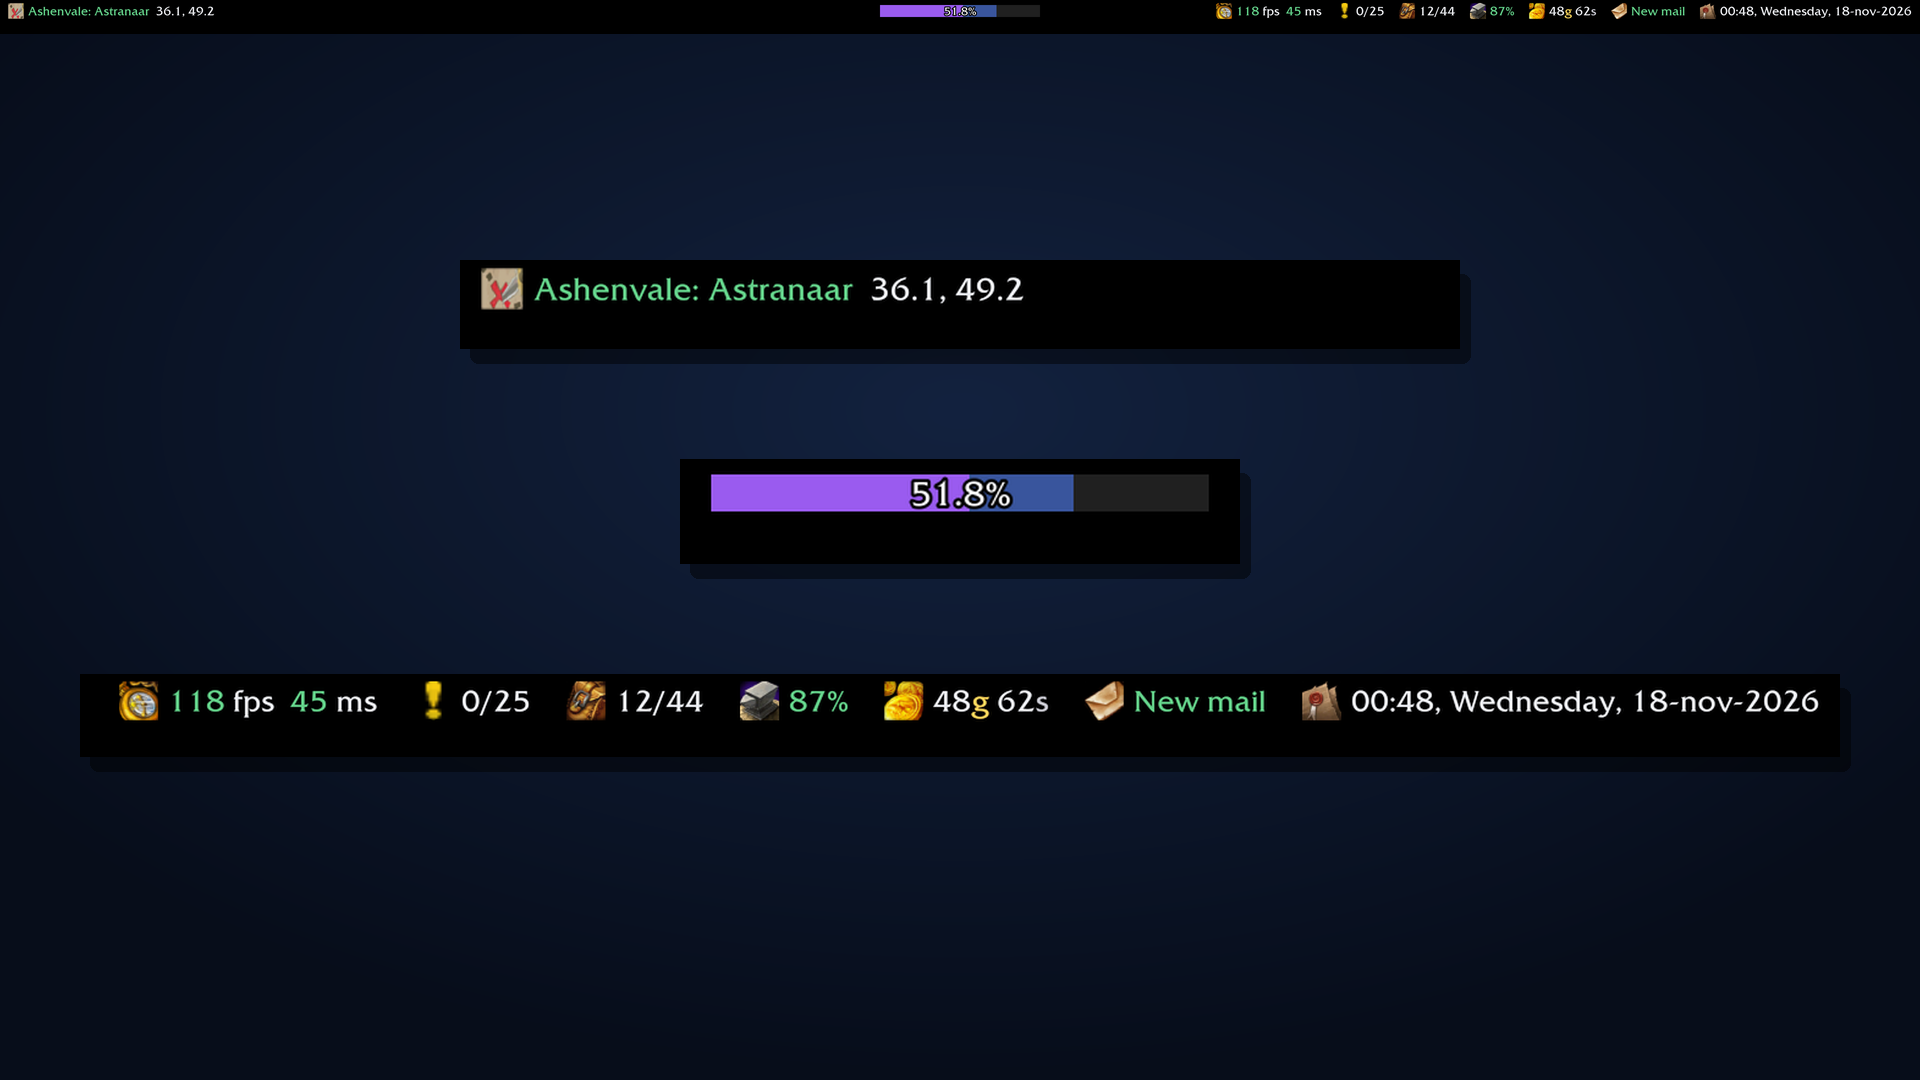
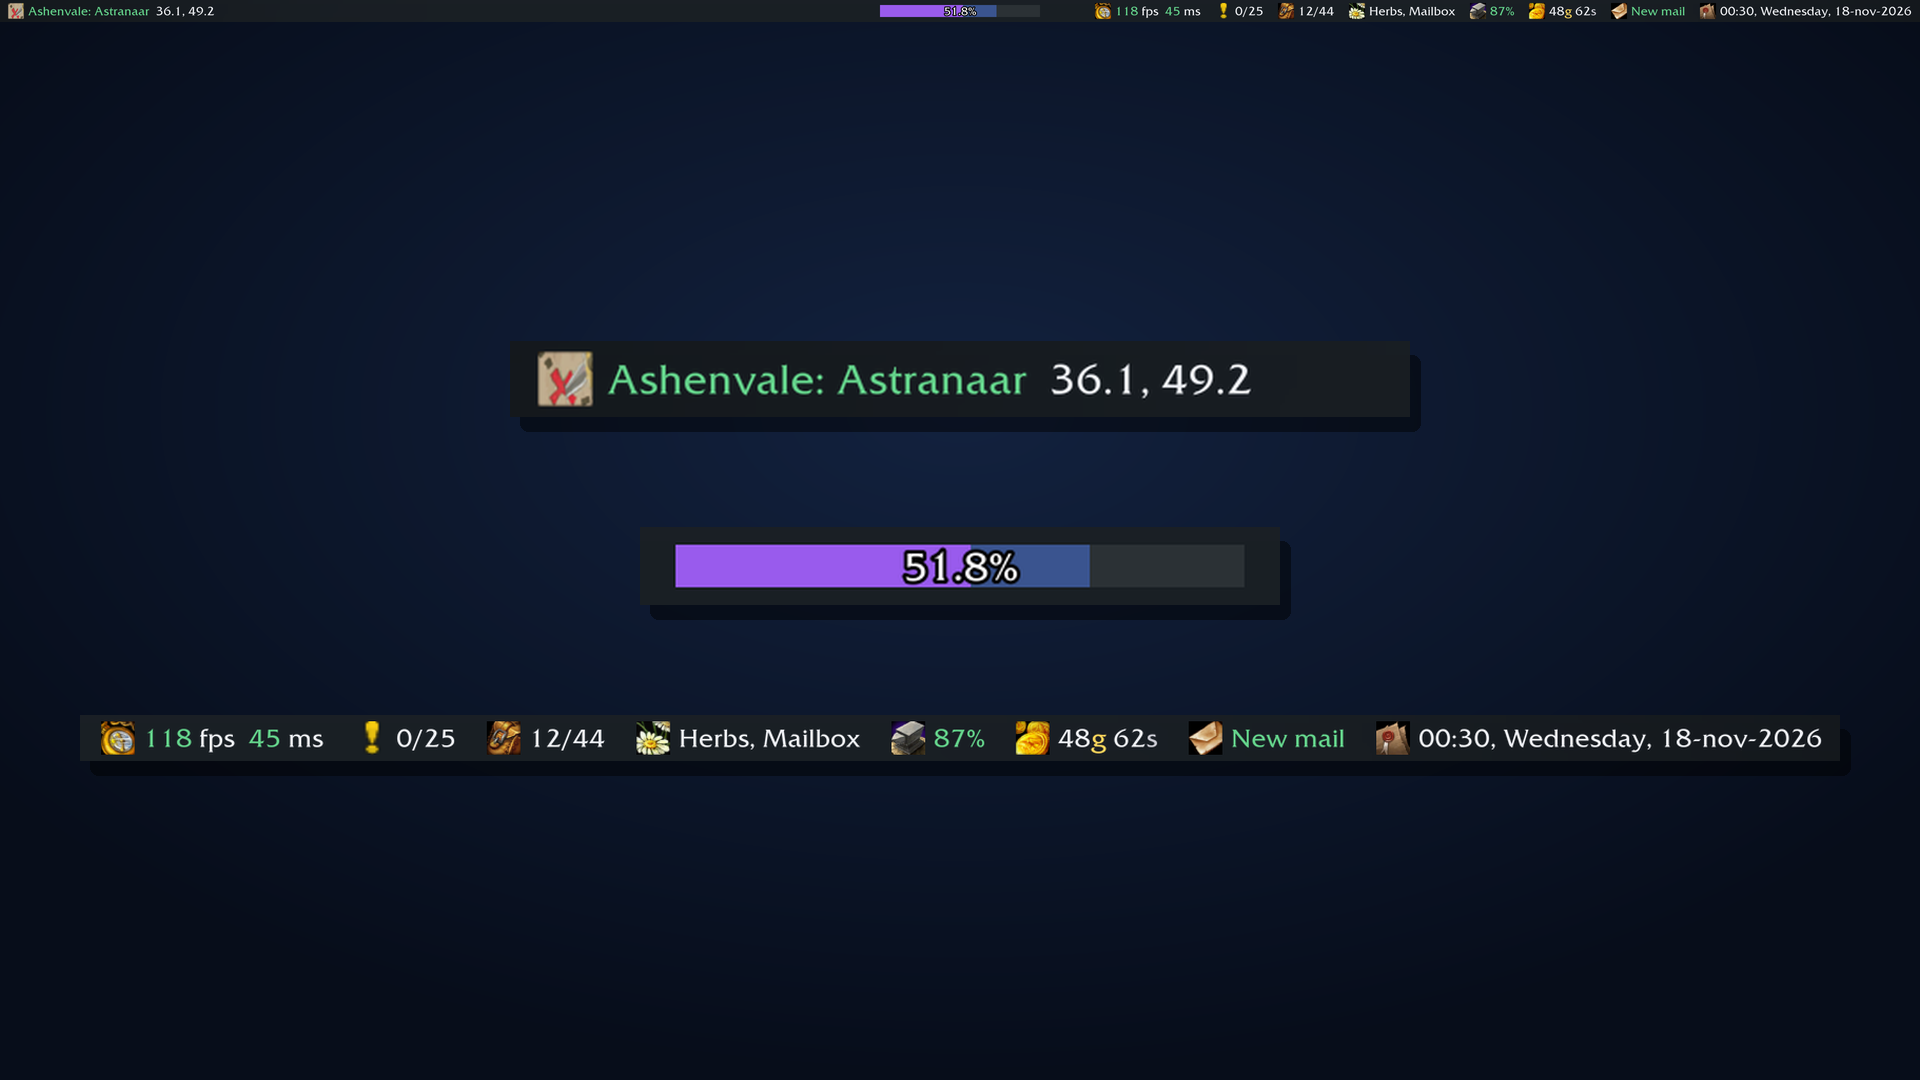
Screenshots: rendered again for 0.4.2 (Tracking plugin, square minimap with its pieces, Unlock to move, the Minimap page, the addon drawer); README shows the bar again

Changed region(s): [[0.2188, 0.2139, 0.7812, 0.55], [0.0312, 0.6111, 0.9688, 0.7028], [0.0, 0.0, 1.0, 0.0306]]

diff --git a/screenshots/compose.py b/screenshots/compose.py
@@ -36,14 +36,15 @@ def place(ims, out, gap=70, maxw=1760, maxh=980, shadows=True, up=1.0):
 
 # 1: the bar. The whole bar along the top, then its two ends larger underneath.
 bar = Image.open("raw/bar.png").convert("RGBA")
+bar = bar.crop((0, 0, bar.width, 44))  # the bar only (44 px at zoom 2), not the backdrop under it
 c = BG.convert("RGBA")
 def strip(im, w):
     s = w / im.width
     return im.resize((w, int(im.height * s)), Image.LANCZOS)
 full = strip(bar, W); c.paste(full, (0, 0), full)
-pieces = [bar.crop((0, 0, 760, bar.height)), bar.crop((1740, 0, 2100, bar.height)), bar.crop((2400, 0, 3840, bar.height))]
-pieces = [strip(pieces[0], 1000), strip(pieces[1], 560), strip(pieces[2], 1760)]
-y = 260
+pieces = [bar.crop((0, 0, 520, bar.height)), bar.crop((1740, 0, 2100, bar.height)), bar.crop((2170, 0, 3840, bar.height))]
+pieces = [strip(pieces[0], 900), strip(pieces[1], 640), strip(pieces[2], 1760)]
+y = full.height + (H - full.height - sum(i.height for i in pieces) - 110 * (len(pieces) - 1)) // 2
 for im in pieces:
     x = (W - im.width) // 2
     c = shadow(c, (x, y, x + im.width, y + im.height), 8)
@@ -51,8 +52,10 @@ for im in pieces:
     y += im.height + 110
 c.convert("RGB").save("1-bar.png")
 
-place([raw("bar-xp"), raw("bar-gold")], "2-plugins-and-tooltips.png", gap=140, maxh=700, up=2.2)
-place([raw("minimap-drawer")], "3-clean-minimap.png", maxw=1500, maxh=800, up=2.2)
-place([raw("page-modules", key=False)], "4-built-in-plugins.png")
-place([raw("plugins-drag", crop=(1060, 460, 2760, 1700), key=False)], "5-drag-plugins.png")
-place([raw("page-bars", key=False)], "6-bars.png")
+place([raw("bar-xp"), raw("bar-gold"), raw("tracking-menu")], "2-plugins-and-tooltips.png", gap=120, maxh=760, up=1.6)
+place([raw("minimap-pieces"), raw("minimap-unlock")], "3-minimap-pieces.png", gap=140, maxh=820, up=1.3)
+place([raw("plugins-drag", crop=(1060, 460, 2760, 1700), key=False)], "4-drag-plugins.png")
+place([raw("page-minimap-pieces", key=False)], "5-minimap-settings.png")
+place([raw("minimap-drawer")], "6-addon-drawer.png", maxw=1500, maxh=800, up=2.0)
+place([raw("page-modules", key=False)], "7-built-in-plugins.png")
+place([raw("page-bars", key=False)], "8-bars.png")

diff --git a/README.md b/README.md
@@ -2,7 +2,7 @@
 
 Info bars and a clean minimap for WoW Forever (1.60.1, interface 16001).
 
-![EverlookDB Bar](screenshots/bar.png)
+![EverlookDB Bar](screenshots/1-bar.png)
 *(screenshot to come)*
 
 ## What it does
